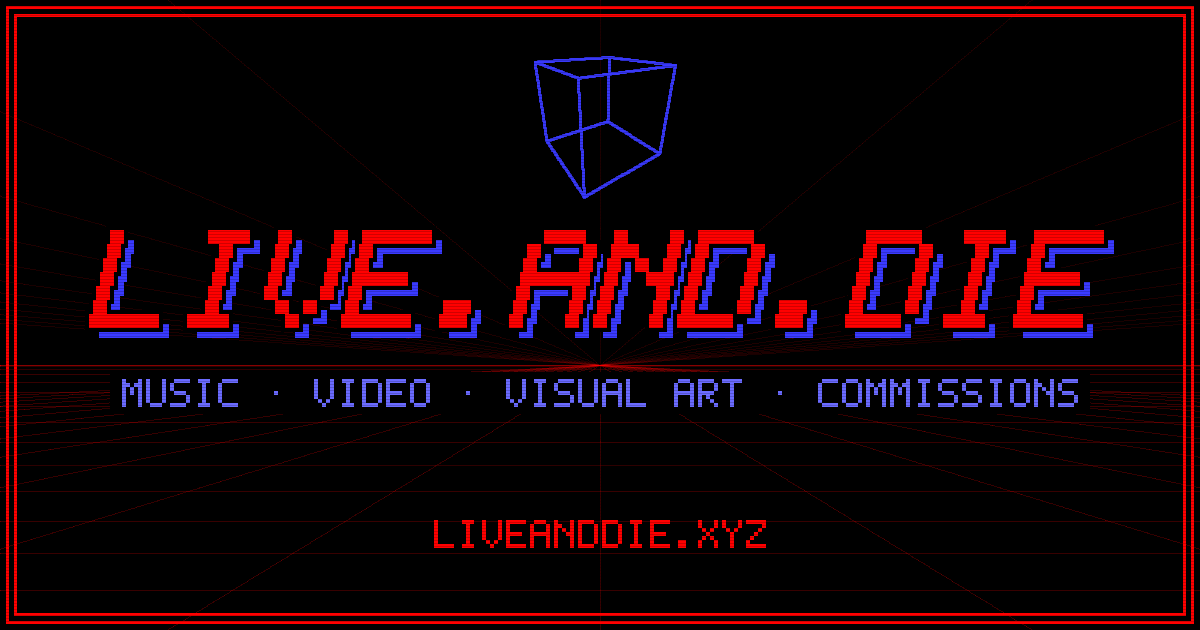
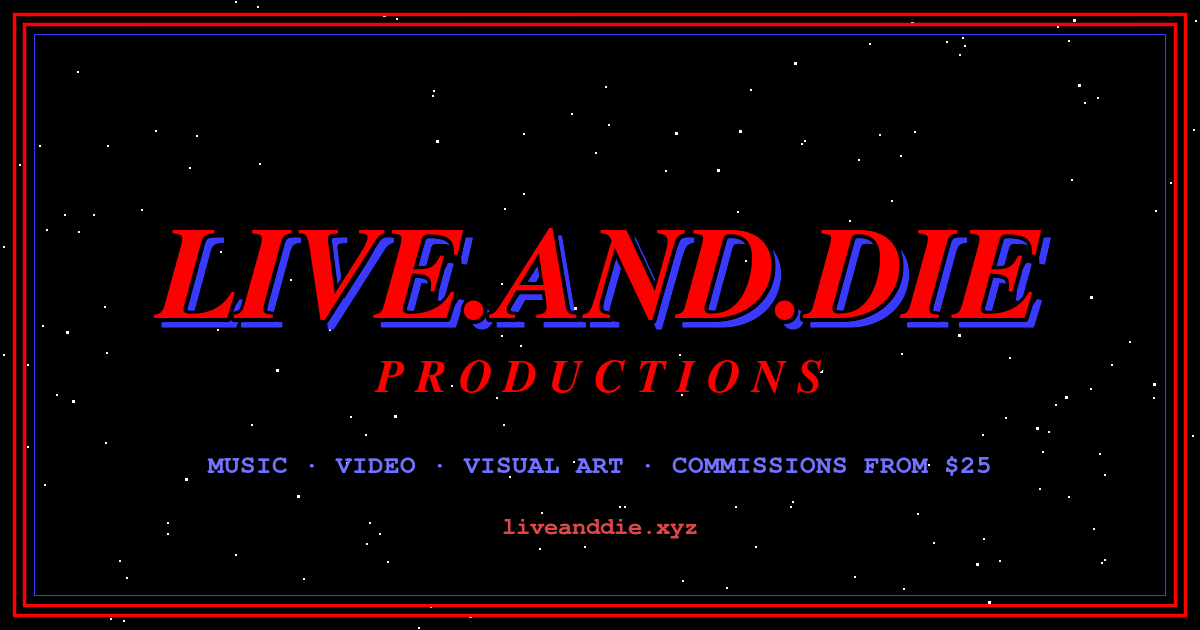
Share card redrawn in house type (no blocky display font); audit, metadata-scan and og tools

diff --git a/tools/audit.py b/tools/audit.py
@@ -1,0 +1,47 @@
+#!/usr/bin/env python3
+"""Static audit of the site: every local href/src/url() target exists, every media file named in
+archive/index.json exists, list external links and big files.  python3 tools/audit.py"""
+import json, os, re, sys, html
+from urllib.parse import urlparse, unquote
+ROOT = os.path.dirname(os.path.dirname(os.path.abspath(__file__)))
+SKIP = {'.git', 'preview', 'tools'}
+pages = []
+for d, ds, fs in os.walk(ROOT):
+    ds[:] = [x for x in ds if x not in SKIP]
+    pages += [os.path.join(d, f) for f in fs if f.endswith(('.html', '.css', '.js'))]
+ref = re.compile(r'''(?:href|src|poster|content)\s*=\s*["']([^"']+)["']|url\(\s*["']?([^"')]+)["']?\s*\)|fetch\(\s*["']([^"']+)["']|location\.href\s*=\s*["']([^"']+)["']''', re.I)
+broken, external = [], {}
+def local(base, u):
+    p = urlparse(u)
+    if p.scheme in ('http', 'https'):
+        if p.netloc in ('liveanddie.xyz', 'www.liveanddie.xyz'): u = p.path or '/'
+        else: return None
+    if p.scheme in ('mailto', 'data', 'javascript', 'tel') or u.startswith('#') or '${' in u or u.startswith('//'): return None
+    path = unquote(urlparse(u).path)
+    if not path: return None
+    t = os.path.join(ROOT, path.lstrip('/')) if path.startswith('/') else os.path.normpath(os.path.join(os.path.dirname(base), path))
+    if os.path.isdir(t): t = os.path.join(t, 'index.html')
+    return t
+for f in sorted(pages):
+    src = open(f, encoding='utf-8', errors='replace').read()
+    for m in ref.finditer(src):
+        u = html.unescape(next(g for g in m.groups() if g))
+        if re.match(r'https?://', u) and urlparse(u).netloc not in ('liveanddie.xyz', 'www.liveanddie.xyz'):
+            external.setdefault(u, set()).add(os.path.relpath(f, ROOT)); continue
+        if not re.match(r'^[\w./#?%~-]|^https?://', u) or ' ' in u: continue
+        t = local(f, u)
+        if t and not os.path.exists(t): broken.append((os.path.relpath(f, ROOT), u))
+idx = json.load(open(os.path.join(ROOT, 'archive/index.json')))
+miss = [(p['date'], m[k]) for p in idx for m in p['media'] for k in ('img', 'thumb', 'loop', 'audio') if m.get(k) and not os.path.exists(os.path.join(ROOT, 'archive', m[k]))]
+big = []
+for d, ds, fs in os.walk(ROOT):
+    ds[:] = [x for x in ds if x != '.git']
+    for x in fs:
+        p = os.path.join(d, x); s = os.path.getsize(p)
+        lim = 3 << 20 if x.endswith(('.mp4', '.m4a')) else 400 << 10
+        if s > lim: big.append((s, os.path.relpath(p, ROOT)))
+print(f'pages scanned: {len(pages)}')
+print(f'BROKEN local refs: {len(broken)}'); [print('  ', a, '->', b) for a, b in broken]
+print(f'MISSING archive media: {len(miss)}'); [print('  ', a, b) for a, b in miss[:40]]
+print(f'BIG files: {len(big)}'); [print(f'   {s/1048576:.1f}M {p}') for s, p in sorted(big, reverse=True)[:40]]
+print(f'EXTERNAL links: {len(external)}'); [print('  ', u, '<-', ', '.join(sorted(v))[:80]) for u, v in sorted(external.items())]
